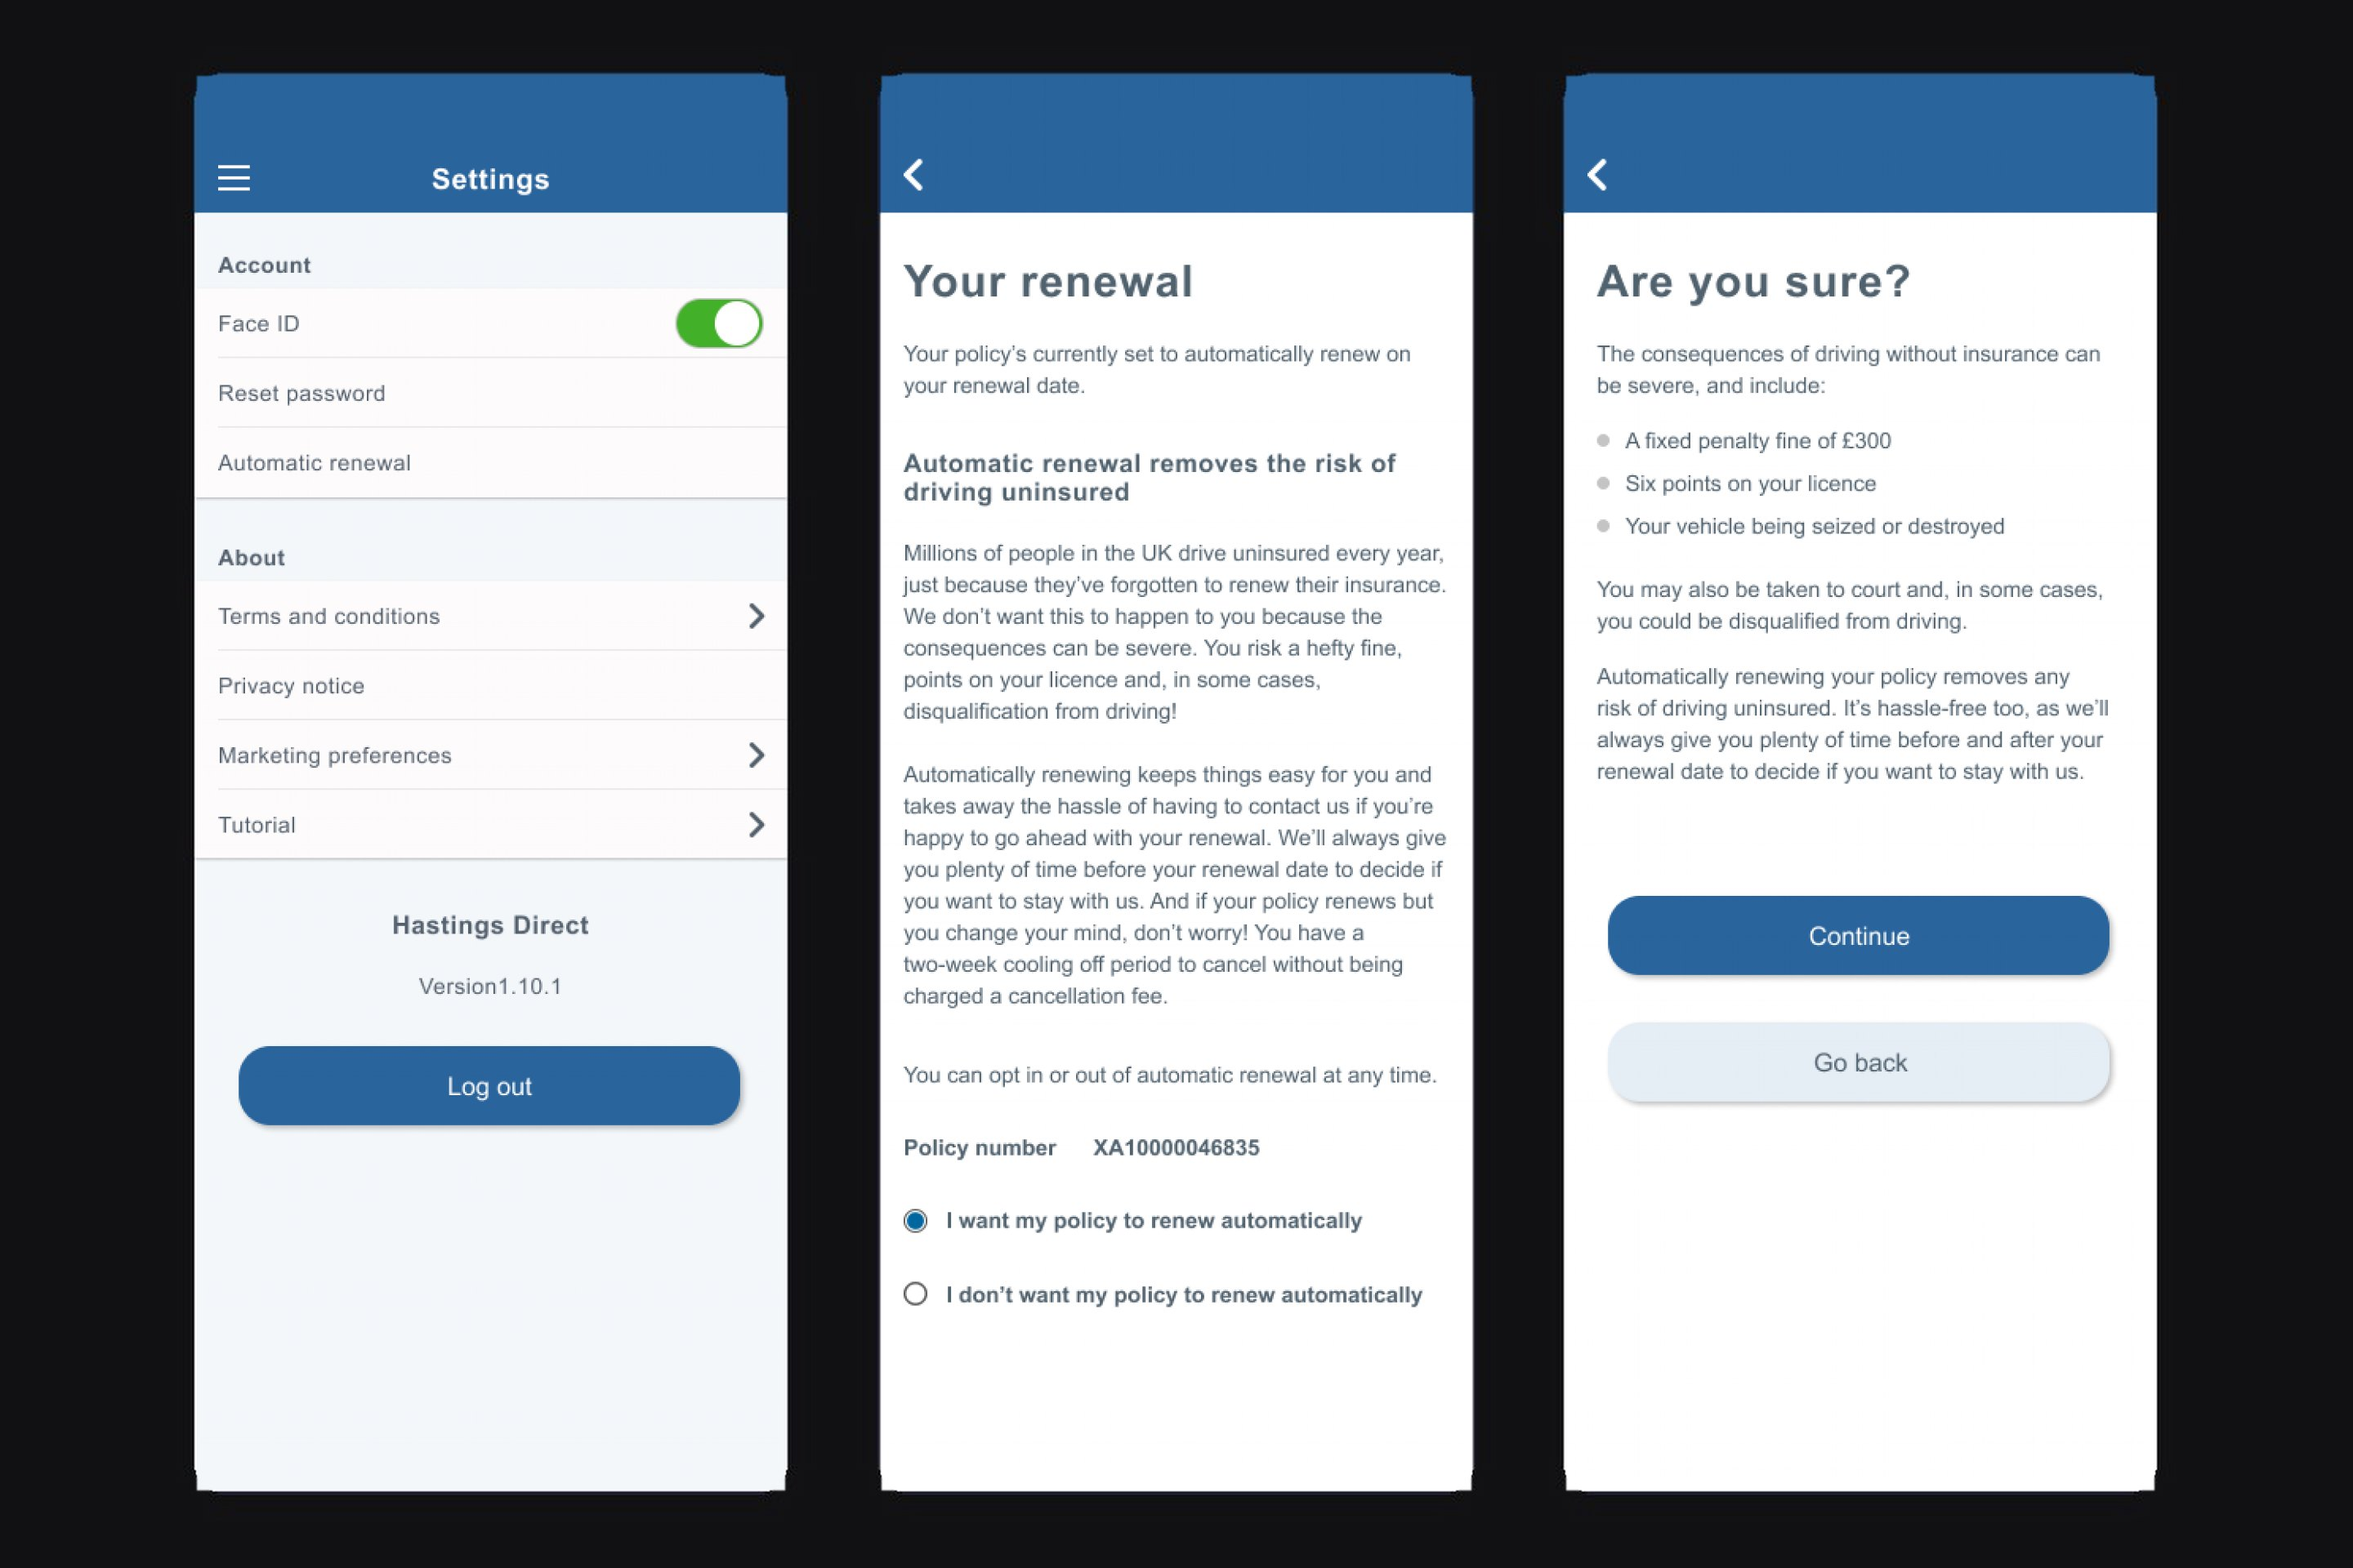
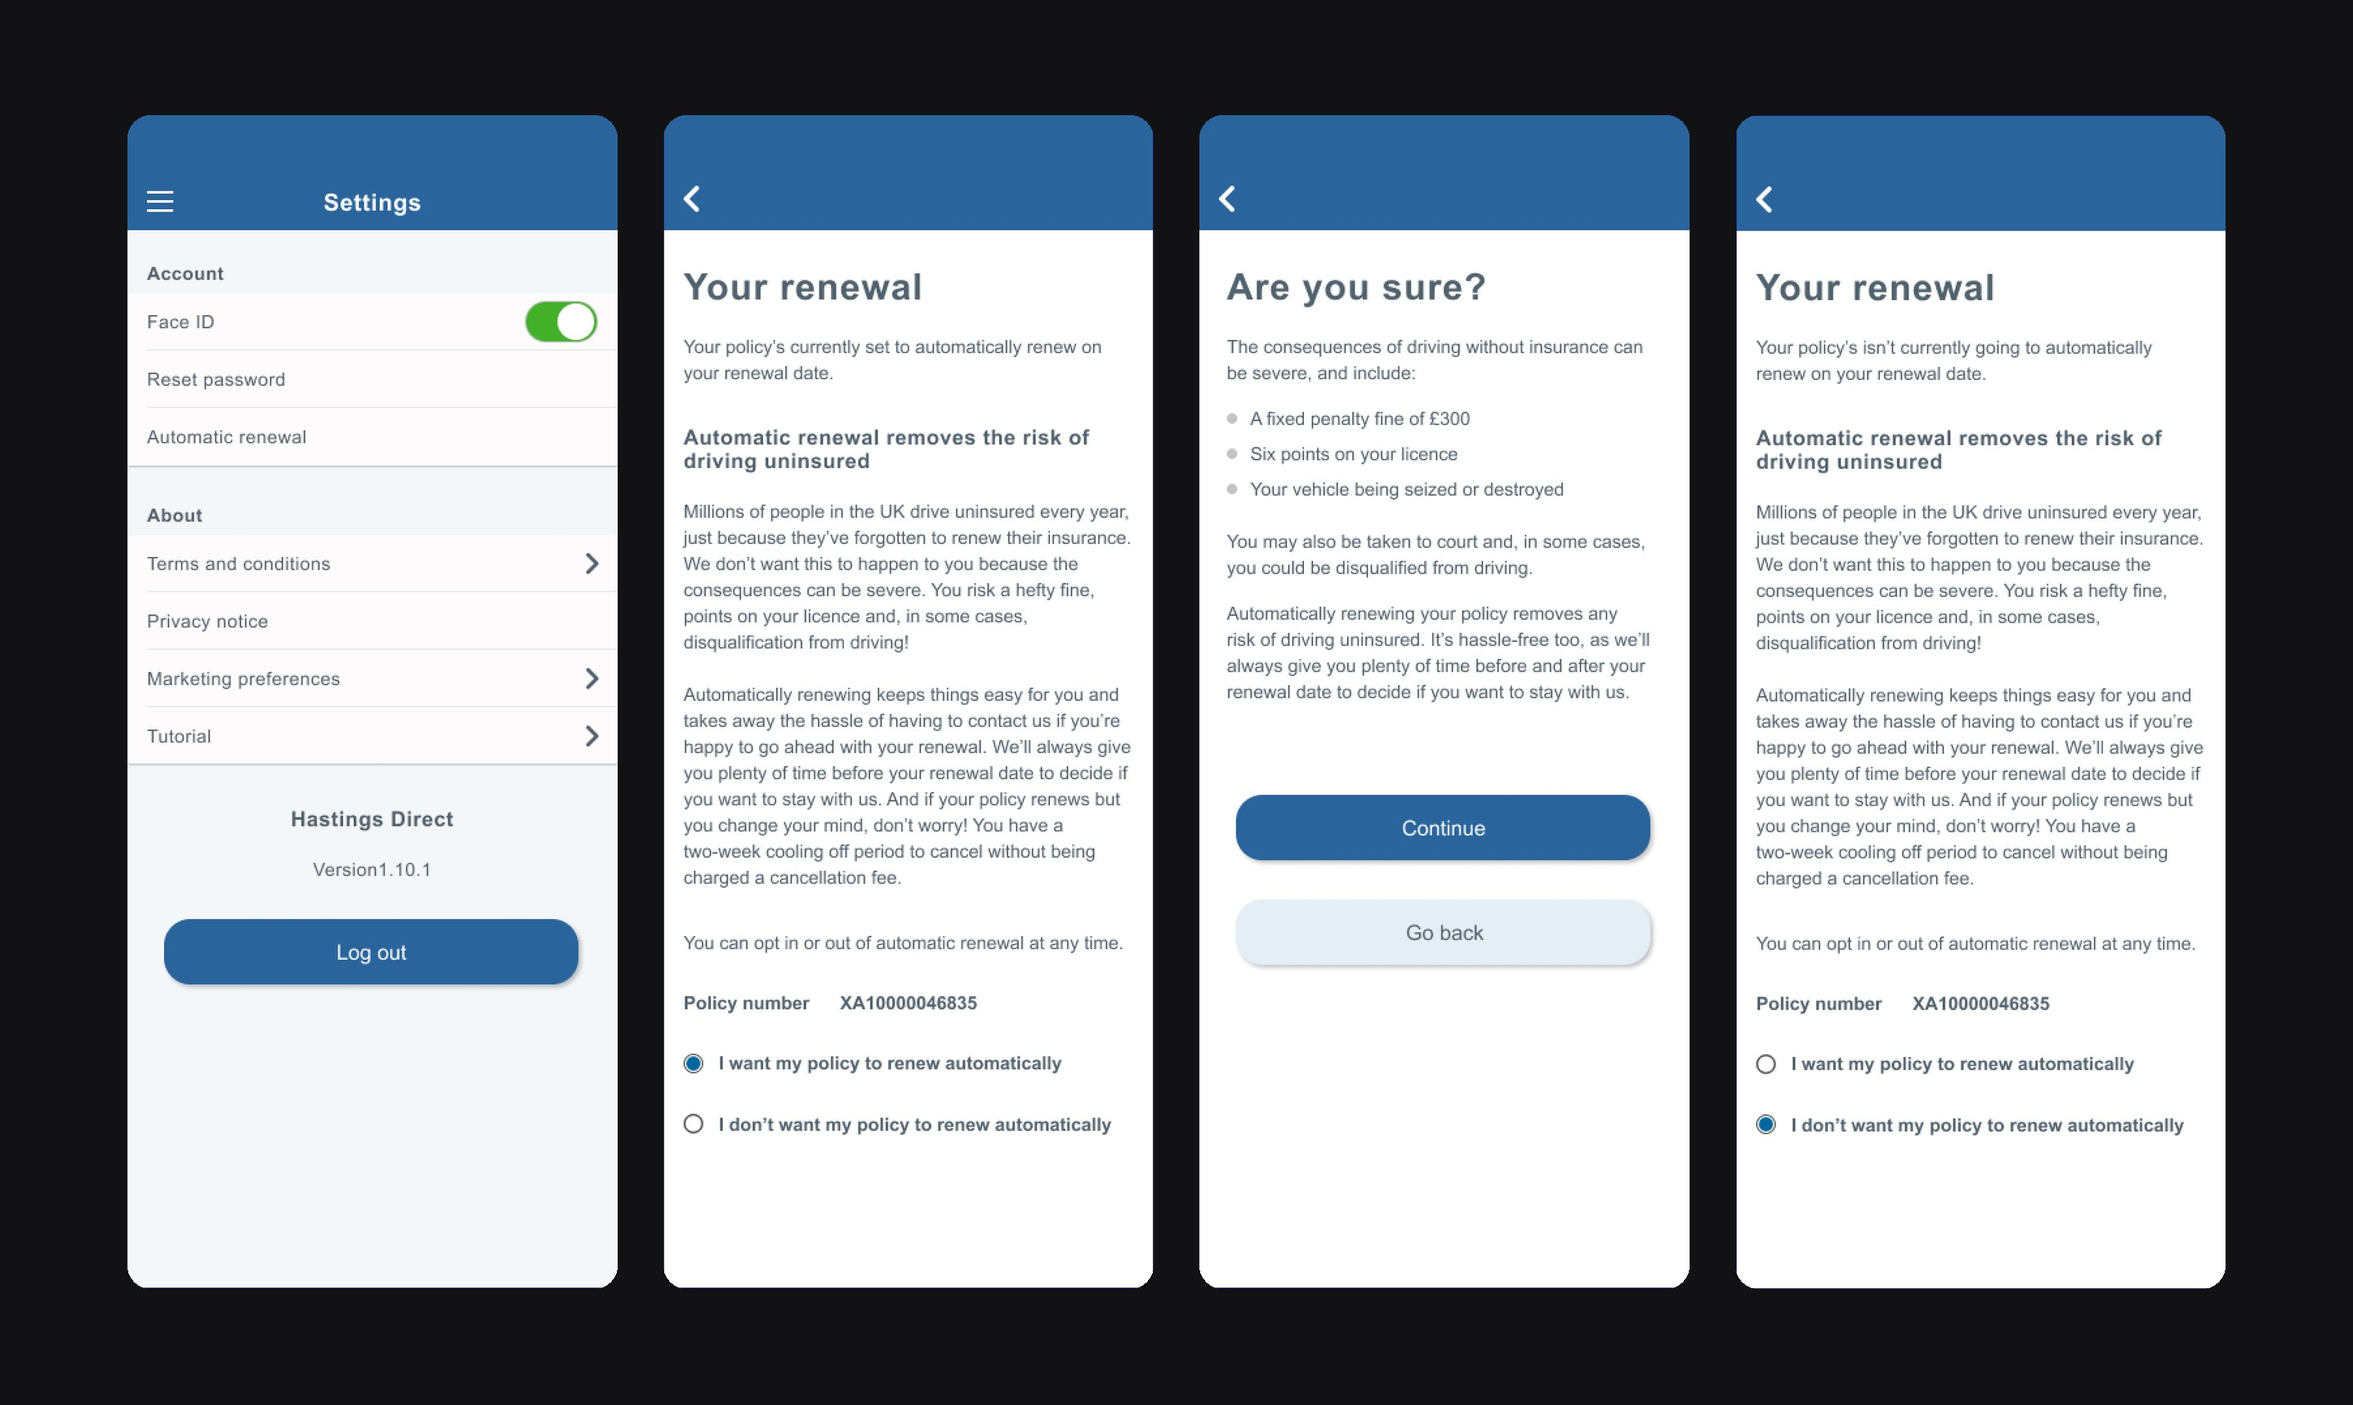
Hastings: shorter rewrite, real-screen hero, readable map crop, auto-renew screens; figures use real image ratios
Claude-Session: https://claude.ai/code/session_01AXHPT6AWr4FLTU6gsMczeY

diff --git a/content/case-studies/hastings-direct.md b/content/case-studies/hastings-direct.md
@@ -4,63 +4,61 @@ order: 3
 title: Hastings Direct
 panelTitle: Hastings Direct
 hook: Ease of use up 33%, task success up 14%. Same 42 questions.
-oneLiner: Restructuring a 42-question car insurance quote journey that underwriting would not let us shorten. I owned the journey map, the competitor grouping audit and the user testing behind the new structure, and the auto-renewal test.
+oneLiner: Restructuring a 42-question car insurance quote journey that underwriting wouldn't let us shorten.
 tags: UX Design, User Research
 year: 2020
-description: Redesigning the online quote journey to reduce drop-off and restore confidence, inside underwriting and regulatory constraints that fixed most of the questions in place.
+description: Redesigning the online quote journey to cut drop-off, inside underwriting and regulatory rules that kept most of the questions in place.
 client: Hastings Direct, via Wunderman Thompson
-role: UX Designer
-team: Head of UX, two senior UX designers, UX researcher, UI designer, account manager. Client side: directors, heads of department, in-house UX team, product owners, project managers, marketing, compliance and underwriting
+role: UX Designer. I owned the journey map with our UX researcher, the competitor grouping audit, the grouping tests and the auto-renewal test
+team: Head of UX, two senior UX designers, UX researcher, UI designer, account manager. Underwriting decided which questions stayed, compliance approved the wording, client directors signed off the changes
 hero: hero.jpg
-heroAlt: The customer journey map for purchasing car insurance direct, with the emotional curve across discovery, get a price, customise and buy
+heroAlt: The new quote journey on mobile: the registration lookup, choosing a policy, and the online versus standard policy choice
 outcomes:
-  - 33% increase in reported ease of use, six months post-launch
-  - 14% increase in users finding what they needed
-  - 42 questions kept; none of the gains came from cutting them
+  - 33% increase in reported ease of use, from the same customer survey before launch and six months after
+  - 14% more users said they found what they needed, same survey
+  - 42 questions kept. None of the gains came from cutting them
   - Auto-renewal control moved to where customers expected it, after testing with six users
 ---
 
 ### 1. Bottom quartile, and nobody knew why
 
-Industry benchmarking put Hastings Direct in the bottom quartile for start-to-quote conversion. The numbers behind that were stark: 63% of users did not complete the form, 38% of those who did still failed to get a quote, and the average feedback rating was 6.54. The assumption going in was that 42 questions was simply too many; a benchmark competitor asked 23.
+Industry benchmarking put Hastings Direct in the bottom quartile for start-to-quote conversion. 63% of users didn't finish the form, 38% of those who did still didn't get a quote, and the average feedback rating was 6.54. The assumption was that 42 questions was simply too many. A competitor asked 23.
 
 ::image full s1-before.jpg
-The journey we inherited. Left, the registration lookup that returns a wall of fields; centre, a quote buried among plan tables; right, the same action labelled and placed differently from screen to screen.
+The journey we inherited: a registration lookup that returns a wall of fields, a quote buried in plan tables, and the same action labelled differently from screen to screen.
 
-The research said something more useful. Eleven usability tests, a round of customer interviews and a customer survey went into a single customer journey map, which I was responsible for building with the UX researcher. Only 7 of the 11 testers reached a price. Average time to a quote was 17 minutes 53 seconds. In the survey, 75% had negative feelings about buying insurance and only 4% called it easy. But the number of questions was not what people complained about. Fields were grouped without logic, jargon went unexplained, and the four-step progress bar lied: "It says it has four steps, but it keeps adding and adding questions. I want to see exactly how long I have left."
+The research said something more useful. I built the customer journey map with our UX researcher from eleven usability tests, customer interviews and a survey. Only 7 of the 11 testers reached a price, and it took them 17 minutes 53 seconds on average. But nobody complained about the number of questions. They complained that fields were grouped without logic, jargon wasn't explained, and the progress bar lied: "It says it has four steps, but it keeps adding and adding questions."
 
 ::image full s1-journey-map.jpg
-The middle of the map: the never-ending form, the 23-versus-42 question comparison, and the point where the emotional curve bottoms out at a failed quote. Every pain point carries a user quote, a stakeholder constraint and a competitor doing it better.
+A section of the journey map: the never-ending form, 23 questions against 42, and the drop when people fail to get a quote.
 
-### 2. Underwriting said no. That turned out to be the useful answer
+### 2. Underwriting said no
 
-Our first proposal cut questions. Compliance were open to it, which surprised us. Underwriting were not, and they were right: the only way to price a quote lower is to ask the questions that legitimately change a customer's risk profile, and a shorter form means a more expensive quote. There was a genuine back and forth, and we won a handful of removals, but they were marginal questions. The big ask, cutting the journey materially, was lost.
+Our first proposal cut questions. Underwriting pushed back, and they were right: the questions that change a customer's risk profile are what make a quote cheaper. We won a handful of minor removals. Cutting the journey down properly was off the table.
 
-That changed the design question from "how many" to "how". If the questions had to stay, the work was in how they were grouped, paced and explained. That part was mine. I audited how direct and indirect competitors grouped the same questions, identified the groupings that recurred and the ones that only existed because of a back-office system, and built alternative structures from them. We then tested those versions with users to see which grouping felt shortest for the same number of questions. The one that won became the three-stage journey: Details, Cover, Quote, with a visible indicator that never added a step. Each section got a clear purpose. Jargon was rewritten with compliance in the room. Error states became recovery paths instead of dead ends.
+So the question changed from "how many" to "how". I audited how direct and indirect competitors grouped the same questions, separated the groupings that made sense to customers from the ones that only existed because of a back-office system, and built alternative structures from them. We tested those with users to see which felt shortest for the same number of questions. The winner became three stages, Details, Cover and Quote, with a progress indicator that never adds a step. Jargon was rewritten with compliance in the room, and error messages started telling people how to fix things.
 
-We also brought the client's in-house UX team into decisions early, consulting them on how Hastings would approach each change before anything reached the directors. The point was that the people who would own the journey after we left felt listened to and had shaped it.
+We brought Hastings' in-house UX team into decisions early too, so the people who'd own the journey after we left had shaped it.
 
-::image pair s2-found-it.jpg s2-progress.jpg
-Not a single mandatory question was cut. The journey got clearer, not shorter. Left, the registration lookup: one field, and the car comes back named, so the first thing the form does is prove it already knows something about you. Right, the progress indicator across three screens: its position never moves, only its state does.
+::image full s2-found-it-desktop.jpg
+The new structure: Details, Cover, Quote. The indicator never adds a step, and the first thing the form does is return your car by name.
 
-### 3. Six people looked in the same place. It was not there
+### 3. Six people looked in the same place
 
-Partway through, a regulatory change meant customers had to be able to switch off auto-renewal. The client's first instinct was to put the control deep inside a sub-menu in settings. Renewals are revenue, and the pull was understandable.
+Partway through, a regulatory change meant customers had to be able to turn off auto-renewal. The client's instinct was to put it deep in a settings sub-menu. Renewals are revenue, so I understood why.
 
-Rather than argue the point, I tested it. I built the task into the prototype: understand what auto-renewal is, then find it and turn it off, with no help from me. Most of the six participants could not find it. What made the finding persuasive was not the failure rate but the pattern: when asked where they expected it to be, almost everyone named the same place, and it was not where the client had put it.
+Rather than argue, I tested it. Six participants had to understand what auto-renewal was, then find it and turn it off on their own. Most couldn't. The convincing part was the pattern: asked where they expected it, almost all of them named the same place, and it wasn't where the client had put it.
 
-I took the screen recordings, the frustration moments and the verbatim quotes back to the director-level review and made the case: this was not an opinion about hierarchy, it was six customers all looking in one spot. The client moved the control out of the buried sub-menu and into the place users had pointed to. On a regulated product, that is the difference between technically compliant and actually usable.
+I took the recordings and quotes to the director-level review. It wasn't my opinion against theirs; it was six customers looking in one spot. The client moved the control to where users had pointed.
 
-::image pair s3-test-session.jpg s3-auto-renew.jpg
-Evidence beats opinion in a room full of directors. Left, usability-test notes with frequency and severity scored per finding. Right, where the client first put it in the app: a row inside Settings, opening its own screen, with an "Are you sure?" step before opting out.
+::image full s3-auto-renew.jpg
+Where the client first put it: a row inside Settings, then its own screen, then an "Are you sure?" step before you could opt out.
 
-### 4. Pressure, parallel streams and the results
+### 4. Results
 
-All of this ran inside a six-month deadline, with My Account and live-site fixes going out in parallel, and holding two rounds of usability testing inside it was a deliberate choice; the auto-renewal finding is why it was worth it.
+All of this ran inside six months, alongside My Account and live-site fixes. Keeping two rounds of usability testing in that schedule was deliberate, and the auto-renewal finding is why it paid off.
 
-One argument we expected and did not get: marketing agreed quickly to replace promotional messaging at the quote reveal with reassurance, once they saw that every tester said they would drop off at the upsell page and the map's lowest point was a failed quote delivered coldly.
-
-Six months after launch, reported ease of use was up 33% and task success 14% on the pre- and post-launch survey. NPS rose too, but I won't claim a company metric for one journey. None of it came from removing questions. It came from restructuring how the same questions were presented, and from one room full of directors watching six customers fail the same task.
+Six months after launch, the same customer survey showed reported ease of use up 33% and 14% more users saying they found what they needed. None of it came from cutting questions. It came from regrouping the same 42. Marketing also agreed to swap promotional messages at the quote reveal for reassurance, once they saw every tester say they'd drop off at the upsell page.
 
 ::image full s4-policy-comparison.jpg
-The same 42 questions, restructured around how people actually decide. The policy step: excess and start date first, then one choice between two policies, with the cheaper one pre-selected and the difference spelled out.
+The policy step: excess and start date first, then one choice between two policies, with the cheaper one pre-selected and the difference spelled out.
